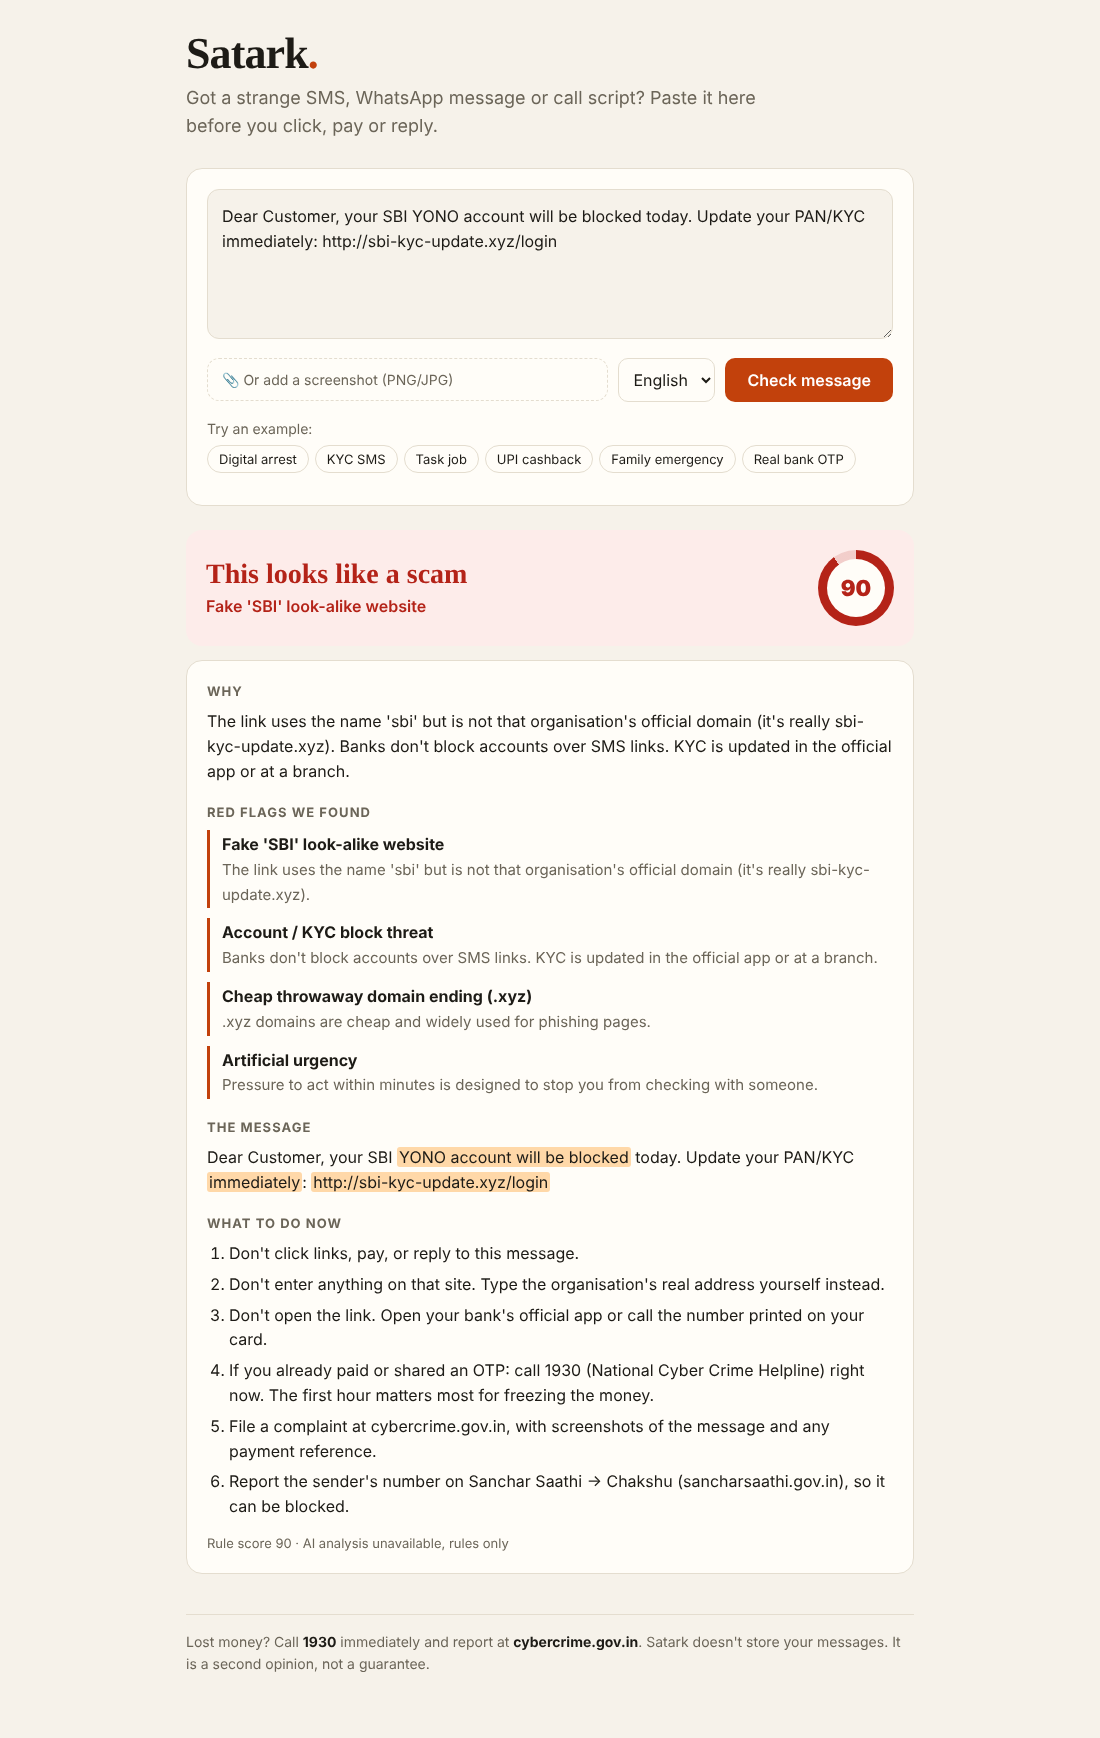
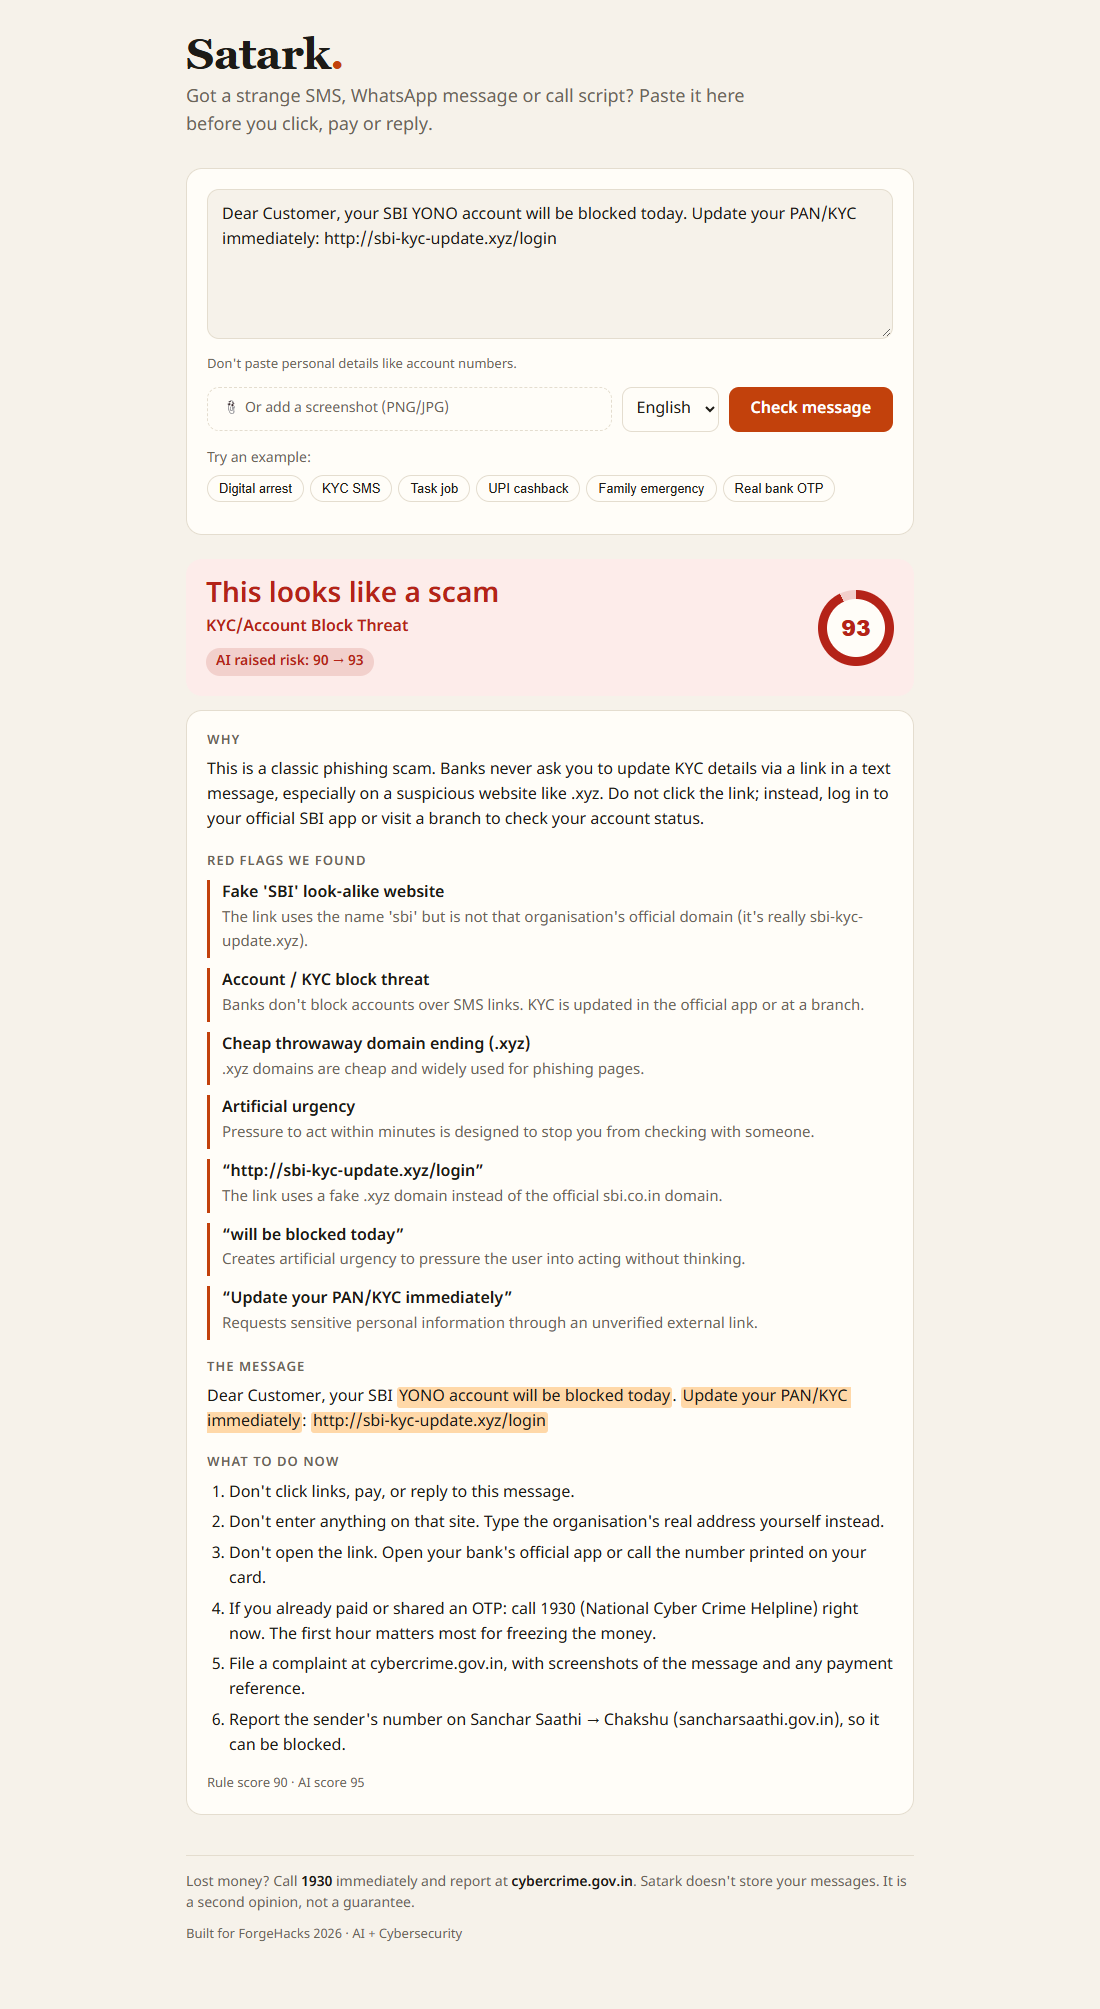
Screenshots from the live site: digital arrest, rules-blind (rules-only then AI raised risk), genuine OTP, screenshot upload; desktop and mobile
scripts/capture_screenshots.py drives headless Edge through scripts/cdp.py (a small DevTools driver) against the
real deployed page and AI, in light mode, and only keeps a shot once the AI has answered. The hero KYC images
are retaken the same way (the old ones said 'AI analysis unavailable'). The Hindi result is not here yet: it
needs the translations deployed.

diff --git a/scripts/capture_screenshots.py b/scripts/capture_screenshots.py
@@ -1,0 +1,140 @@
+"""Capture the README / Devpost screenshots from a running Satark site (the live one by default).
+
+    python scripts/capture_screenshots.py                              # live site -> docs/screenshots/
+    python scripts/capture_screenshots.py --base http://127.0.0.1:8000 --only kyc,otp
+
+It drives headless Edge/Chrome (scripts/cdp.py), so the pictures are the real page talking to the real AI,
+not mock-ups. Each shot is taken at a desktop and a phone width. A shot only counts if the AI answered, so a
+rate-limited run is retried rather than saved as a rules-only picture.
+
+Shots: kyc (hero), digital-arrest, rules-blind (stage 1 "rules found nothing", then "AI raised risk"),
+otp (genuine bank OTP, low risk), upload (a screenshot instead of text), hindi (only with --hindi, after the
+Hindi/Marathi playbook is deployed).
+"""
+from __future__ import annotations
+
+import argparse
+import json
+import sys
+import time
+from pathlib import Path
+
+ROOT = Path(__file__).resolve().parents[1]
+sys.path.insert(0, str(ROOT / "scripts"))
+from cdp import Browser  # noqa: E402
+
+VIEWS = {"desktop": dict(width=1100, height=900, scale=1, mobile=False),
+         "mobile": dict(width=390, height=844, scale=2, mobile=True)}
+SAMPLES = {s["id"]: s for s in json.loads((ROOT / "samples" / "messages.json").read_text(encoding="utf-8"))}
+UPLOAD = ROOT / "samples" / "screenshots" / "family-hindi-whatsapp.png"
+AI_DONE = "document.getElementById('scores').textContent.includes('AI score') && document.getElementById('aiNote').textContent === ''"
+RESULT_UP = "document.getElementById('result').style.display === 'block'"
+# Hold back the AI request by a few seconds so the rules-only first stage can be photographed.
+DELAY_AI = """(() => { const f = window.fetch.bind(window); window.fetch = (u, o) =>
+  (o && o.body && o.body.get && o.body.get('ai') === 'true') ? new Promise(r => setTimeout(r, %d)).then(() => f(u, o)) : f(u, o); })()"""
+
+
+def chip(br: Browser, label: str):
+    br.js(f"[...document.querySelectorAll('.chip')].find(b => b.textContent === {json.dumps(label)}).click()")
+
+
+def paste(br: Browser, text: str):
+    br.js(f"document.getElementById('text').value = {json.dumps(text)}; document.getElementById('form').requestSubmit()")
+
+
+def open_page(br: Browser, base: str, view: dict, lang: str | None = None):
+    br.viewport(view["width"], view["height"], view["scale"], view["mobile"])
+    br.color_scheme("light")   # match the other README images, whatever this machine's theme is
+    br.goto(base + "/")
+    br.wait_for("document.fonts.status === 'loaded'", 30)
+    if lang:
+        br.js(f"document.getElementById('lang').value = {json.dumps(lang)}; document.getElementById('lang').onchange()")
+
+
+def settle(br: Browser, seconds: float = 3.6):
+    """Let the 'AI raised risk' pulse finish (2 x 1.6s) so it isn't caught half way."""
+    time.sleep(seconds)
+
+
+def shot_chip(label: str, expect_scam: bool | None = None):
+    def run(br, base, view, out, lang=None):
+        open_page(br, base, view, lang)
+        chip(br, label)
+        br.wait_for(AI_DONE, 60)
+        settle(br)
+        br.screenshot(out)
+    return run
+
+
+def shot_blind(br, base, view, out, lang=None):
+    """Two pictures: the rules-only first stage (nothing found), then the AI raising the risk."""
+    open_page(br, base, view, lang)
+    br.js(DELAY_AI % 5000)
+    paste(br, SAMPLES["blind-voice-clone-mama"]["text"])
+    br.wait_for(RESULT_UP, 30)
+    br.wait_for("document.getElementById('aiNote').textContent.includes('double-checking')", 10)
+    br.screenshot(out.with_name(out.name.replace("rules-blind", "rules-blind-1-rules-only")))
+    br.wait_for("!document.getElementById('delta').hidden", 60)
+    time.sleep(0.5)                       # the pulse is at its widest around half a second in
+    br.wait_for(AI_DONE, 10)
+    br.screenshot(out.with_name(out.name.replace("rules-blind", "rules-blind-2-ai-raised-risk")))
+
+
+def shot_upload(br, base, view, out, lang=None):
+    open_page(br, base, view, lang)
+    br.set_files("#image", [str(UPLOAD)])
+    br.js("document.getElementById('form').requestSubmit()")
+    br.wait_for(RESULT_UP, 90)
+    br.wait_for(AI_DONE, 90)
+    settle(br)
+    br.screenshot(out)
+
+
+SHOTS = {
+    "kyc": shot_chip("KYC SMS"),
+    "digital-arrest": shot_chip("Digital arrest"),
+    "rules-blind": shot_blind,
+    "otp": shot_chip("Real bank OTP"),
+    "upload": shot_upload,
+}
+
+
+def main() -> int:
+    ap = argparse.ArgumentParser(description=__doc__, formatter_class=argparse.RawDescriptionHelpFormatter)
+    ap.add_argument("--base", default="https://satark-1tnt.onrender.com")
+    ap.add_argument("--out", default=str(ROOT / "docs" / "screenshots"))
+    ap.add_argument("--only", help="comma-separated shot names")
+    ap.add_argument("--hindi", action="store_true", help="also take the Hindi result (the family-emergency sample)")
+    ap.add_argument("--attempts", type=int, default=3)
+    a = ap.parse_args()
+
+    shots = dict(SHOTS)
+    if a.hindi:
+        shots["hindi"] = lambda br, base, view, out, lang=None: shot_chip("Family emergency")(br, base, view, out, "hi")
+    names = a.only.split(",") if a.only else list(shots)
+    out_dir = Path(a.out)
+    out_dir.mkdir(parents=True, exist_ok=True)
+    failures = []
+    with Browser(port=9477) as br:
+        for name in names:
+            for view_name, view in VIEWS.items():
+                path = out_dir / f"{view_name}-{name}.png"
+                for attempt in range(1, a.attempts + 1):
+                    try:
+                        shots[name](br, a.base.rstrip("/"), view, path)
+                        print(f"ok   {view_name:<8}{name}")
+                        break
+                    except (TimeoutError, RuntimeError) as e:
+                        print(f"retry {view_name} {name} (attempt {attempt}): {type(e).__name__}")
+                        time.sleep(15)   # Groq's free tier is token-limited per minute; give it room
+                else:
+                    failures.append(f"{view_name}-{name}")
+                time.sleep(8)
+    if failures:
+        print("FAILED:", ", ".join(failures))
+        return 1
+    return 0
+
+
+if __name__ == "__main__":
+    sys.exit(main())

diff --git a/scripts/cdp.py b/scripts/cdp.py
@@ -1,0 +1,142 @@
+"""A very small Chrome DevTools Protocol driver for headless Edge/Chrome, used by capture_screenshots.py.
+
+Uses only `websockets` (already installed with uvicorn[standard]) and the standard library. It starts its own
+browser with a throwaway profile and, on close, kills only that process tree, never other browser windows.
+"""
+from __future__ import annotations
+
+import base64
+import json
+import os
+import shutil
+import subprocess
+import tempfile
+import time
+import urllib.request
+from pathlib import Path
+
+from websockets.sync.client import connect
+
+BROWSERS = [
+    r"C:\Program Files (x86)\Microsoft\Edge\Application\msedge.exe",
+    r"C:\Program Files\Microsoft\Edge\Application\msedge.exe",
+    r"C:\Program Files\Google\Chrome\Application\chrome.exe",
+    r"C:\Program Files (x86)\Google\Chrome\Application\chrome.exe",
+]
+
+
+def find_browser() -> str:
+    for p in BROWSERS:
+        if Path(p).exists():
+            return p
+    for name in ("msedge", "chrome", "chromium", "google-chrome"):
+        if shutil.which(name):
+            return shutil.which(name)
+    raise RuntimeError("No Edge/Chrome found. Install one or add its path to BROWSERS in scripts/cdp.py.")
+
+
+class Browser:
+    def __init__(self, port: int = 9333, extra_args: list[str] | None = None):
+        self.profile = tempfile.mkdtemp(prefix="satark-cdp-")
+        args = [find_browser(), "--headless=new", f"--remote-debugging-port={port}", f"--user-data-dir={self.profile}",
+                "--no-first-run", "--no-default-browser-check", "--disable-extensions", "--hide-scrollbars",
+                "--force-color-profile=srgb", *(extra_args or []), "about:blank"]
+        self.proc = subprocess.Popen(args, stdout=subprocess.DEVNULL, stderr=subprocess.DEVNULL)
+        self.port, self._id, self.events = port, 0, []
+        self.ws = None
+        for _ in range(100):
+            try:
+                pages = json.load(urllib.request.urlopen(f"http://127.0.0.1:{port}/json/list", timeout=2))
+                page = next(p for p in pages if p["type"] == "page")
+                self.ws = connect(page["webSocketDebuggerUrl"], max_size=64 * 1024 * 1024)
+                break
+            except Exception:
+                time.sleep(0.2)
+        if self.ws is None:
+            self.close()
+            raise RuntimeError("Could not connect to the browser's debugging port.")
+        for domain in ("Page", "Runtime", "DOM", "Network"):
+            self.send(f"{domain}.enable")
+
+    def send(self, method: str, **params):
+        self._id += 1
+        mid = self._id
+        self.ws.send(json.dumps({"id": mid, "method": method, "params": params}))
+        while True:
+            msg = json.loads(self.ws.recv(timeout=120))
+            if msg.get("id") == mid:
+                if "error" in msg:
+                    raise RuntimeError(f"{method}: {msg['error']}")
+                return msg.get("result", {})
+            if "method" in msg:
+                self.events.append(msg)
+
+    def wait_event(self, name: str, timeout: float = 30):
+        end = time.time() + timeout
+        while time.time() < end:
+            for i, e in enumerate(self.events):
+                if e["method"] == name:
+                    return self.events.pop(i)
+            try:
+                msg = json.loads(self.ws.recv(timeout=0.5))
+            except TimeoutError:
+                continue
+            if "method" in msg:
+                self.events.append(msg)
+        raise TimeoutError(name)
+
+    def viewport(self, width: int, height: int, scale: float = 1, mobile: bool = False):
+        self.send("Emulation.setDeviceMetricsOverride", width=width, height=height, deviceScaleFactor=scale, mobile=mobile)
+
+    def color_scheme(self, scheme: str):
+        """Force prefers-color-scheme to 'light' or 'dark' regardless of the machine's setting."""
+        self.send("Emulation.setEmulatedMedia", features=[{"name": "prefers-color-scheme", "value": scheme}])
+
+    def goto(self, url: str):
+        self.events.clear()
+        self.send("Page.navigate", url=url)
+        self.wait_event("Page.loadEventFired", 90)
+
+    def js(self, expression: str, await_promise: bool = False):
+        r = self.send("Runtime.evaluate", expression=expression, returnByValue=True, awaitPromise=await_promise)
+        if "exceptionDetails" in r:
+            raise RuntimeError(r["exceptionDetails"].get("exception", {}).get("description", "script error"))
+        return r["result"].get("value")
+
+    def wait_for(self, expression: str, timeout: float = 30, interval: float = 0.25):
+        end = time.time() + timeout
+        while time.time() < end:
+            if self.js(expression):
+                return True
+            time.sleep(interval)
+        raise TimeoutError(expression)
+
+    def set_files(self, selector: str, paths: list[str]):
+        root = self.send("DOM.getDocument")["root"]["nodeId"]
+        node = self.send("DOM.querySelector", nodeId=root, selector=selector)["nodeId"]
+        self.send("DOM.setFileInputFiles", files=paths, nodeId=node)
+
+    def screenshot(self, path: str | Path, full_page: bool = True):
+        """PNG of the page. full_page grows the capture to the document height (at the current width)."""
+        params = {"format": "png", "captureBeyondViewport": True}
+        if full_page:
+            m = self.send("Page.getLayoutMetrics")["cssContentSize"]
+            params["clip"] = {"x": 0, "y": 0, "width": m["width"], "height": m["height"], "scale": 1}
+        data = self.send("Page.captureScreenshot", **params)["data"]
+        Path(path).write_bytes(base64.b64decode(data))
+
+    def close(self):
+        try:
+            if self.ws:
+                self.ws.close()
+        finally:
+            if self.proc.poll() is None:   # taskkill /T takes down this browser's own helper processes only
+                subprocess.run(["taskkill", "/F", "/T", "/PID", str(self.proc.pid)], capture_output=True)
+            time.sleep(0.5)
+            shutil.rmtree(self.profile, ignore_errors=True)
+
+    def __enter__(self):
+        return self
+
+    def __exit__(self, *exc):
+        self.close()
